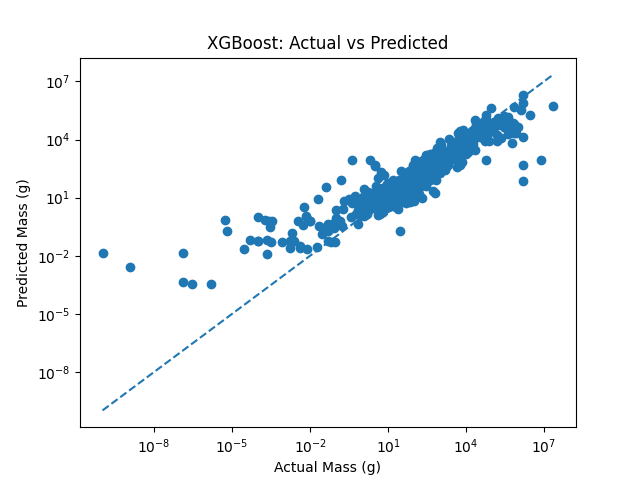
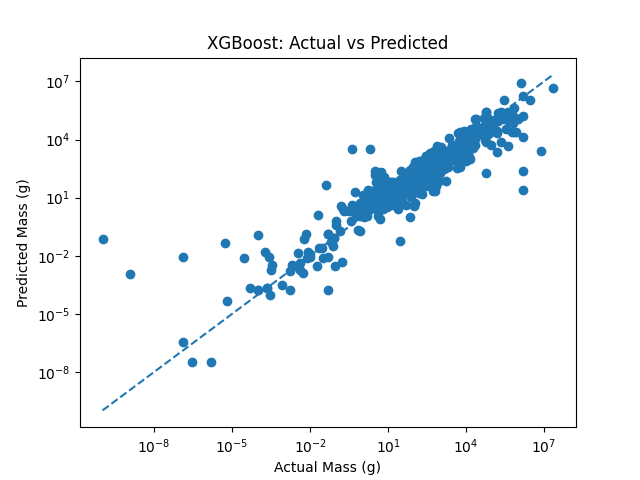
Tweaked model hyper parameters,
Changed from MSE to MAE

diff --git a/predictive_models/decision_tree.py b/predictive_models/decision_tree.py
@@ -14,6 +14,8 @@ from sklearn.metrics import mean_squared_error, r2_score
 #import training and testing data
 train = pd.read_csv("./data/train.csv")
 test = pd.read_csv("./data/test.csv")
+
+#convert mass to log10 to avoid rounding error + reduce loss effect of large outliers
 train["mass_g"] = np.log10(train["mass_g"])
 test["mass_g"] = np.log10(test["mass_g"])
 
@@ -40,9 +42,9 @@ x_train = combined.iloc[:len(x_train)].copy()
 x_test = combined.iloc[len(x_train):].copy()
 
 model = xgb.XGBRegressor(
-    objective="reg:squarederror",
-    n_estimators=300,
-    max_depth=6,
+    objective="reg:absoluteerror",
+    n_estimators=700,
+    max_depth=100,
     learning_rate=0.05,
     subsample=0.8,
     colsample_bytree=0.8,
@@ -50,10 +52,12 @@ model = xgb.XGBRegressor(
     random_state=42
 )
 
+
 model.fit(x_train, y_train)
 
 y_pred = model.predict(x_test)
 
+# evaluate in log space
 rmse = np.sqrt(mean_squared_error(y_test, y_pred))
 
 rmse = np.sqrt(mean_squared_error(y_test, y_pred))
@@ -63,8 +67,8 @@ print("RMSE:", rmse)
 print("R2 Score:", r2)
 
 # need to convert log10 mass to actual mass
-y_test = np.power(10, y_test)
-y_pred = np.power(10, y_pred)
+y_test = np.pow(10, y_test)
+y_pred = np.pow(10, y_pred)
 
 # Plot predicted vs actual
 plt.loglog()
